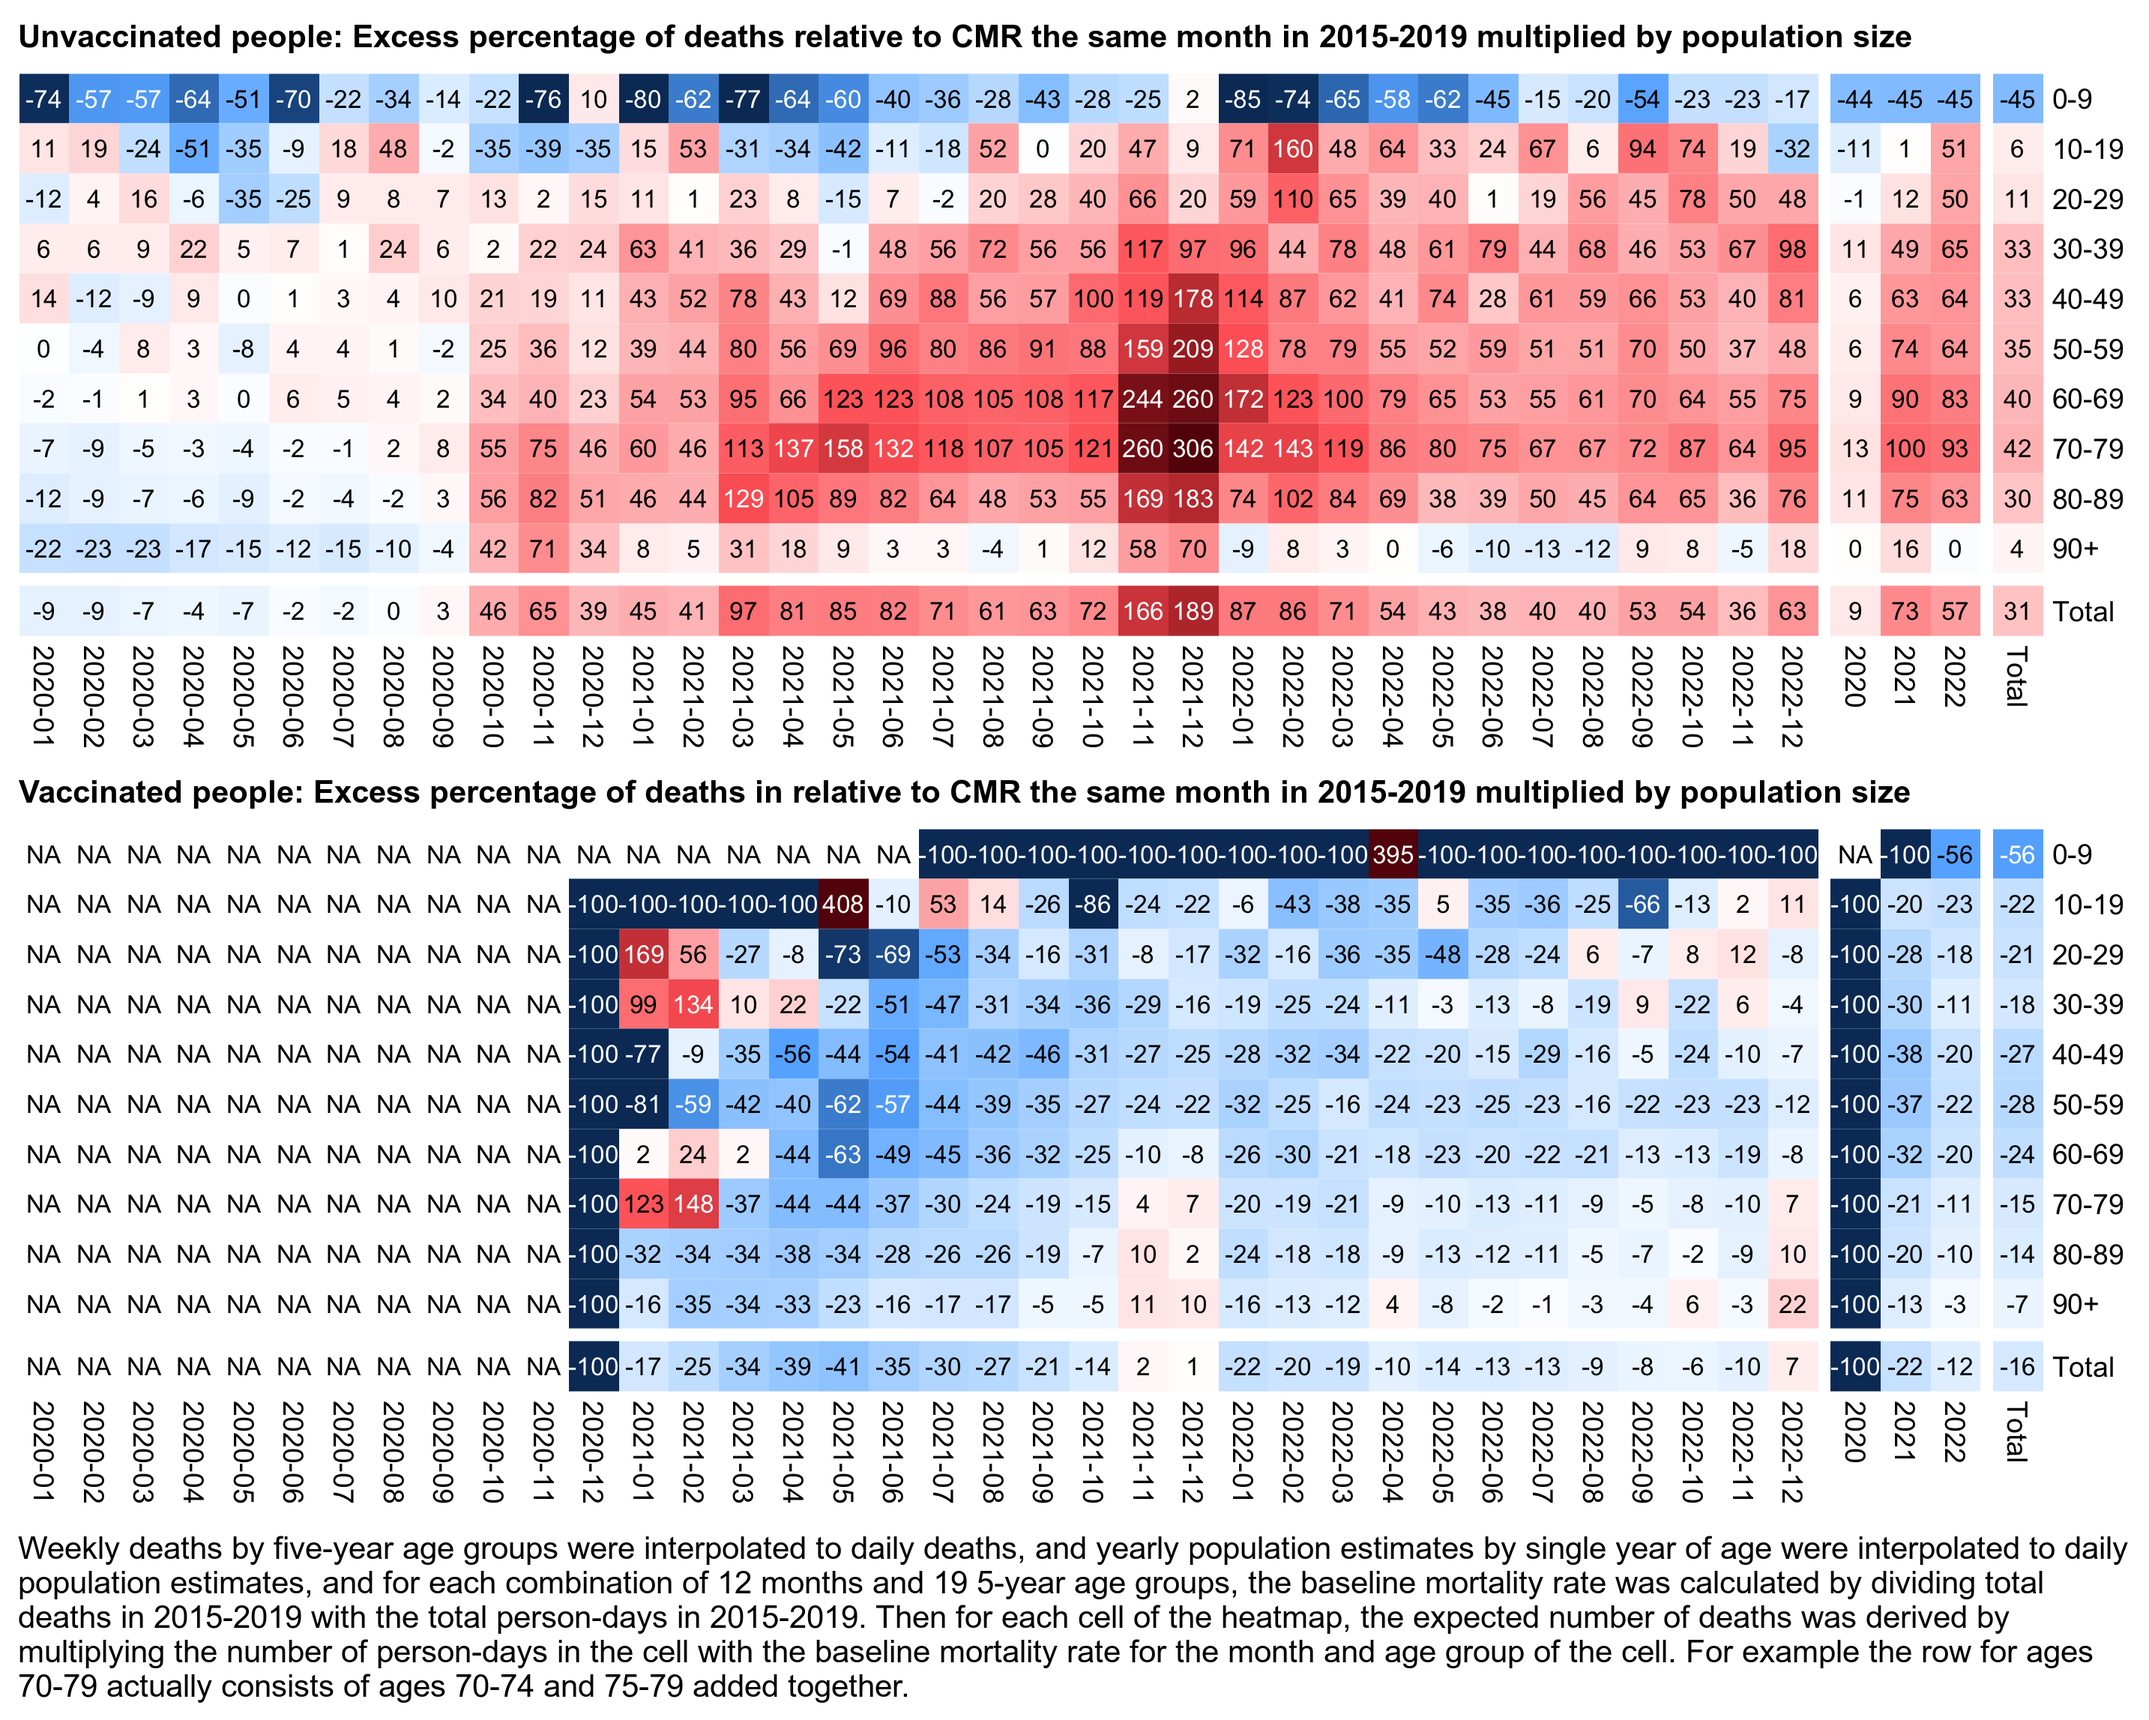
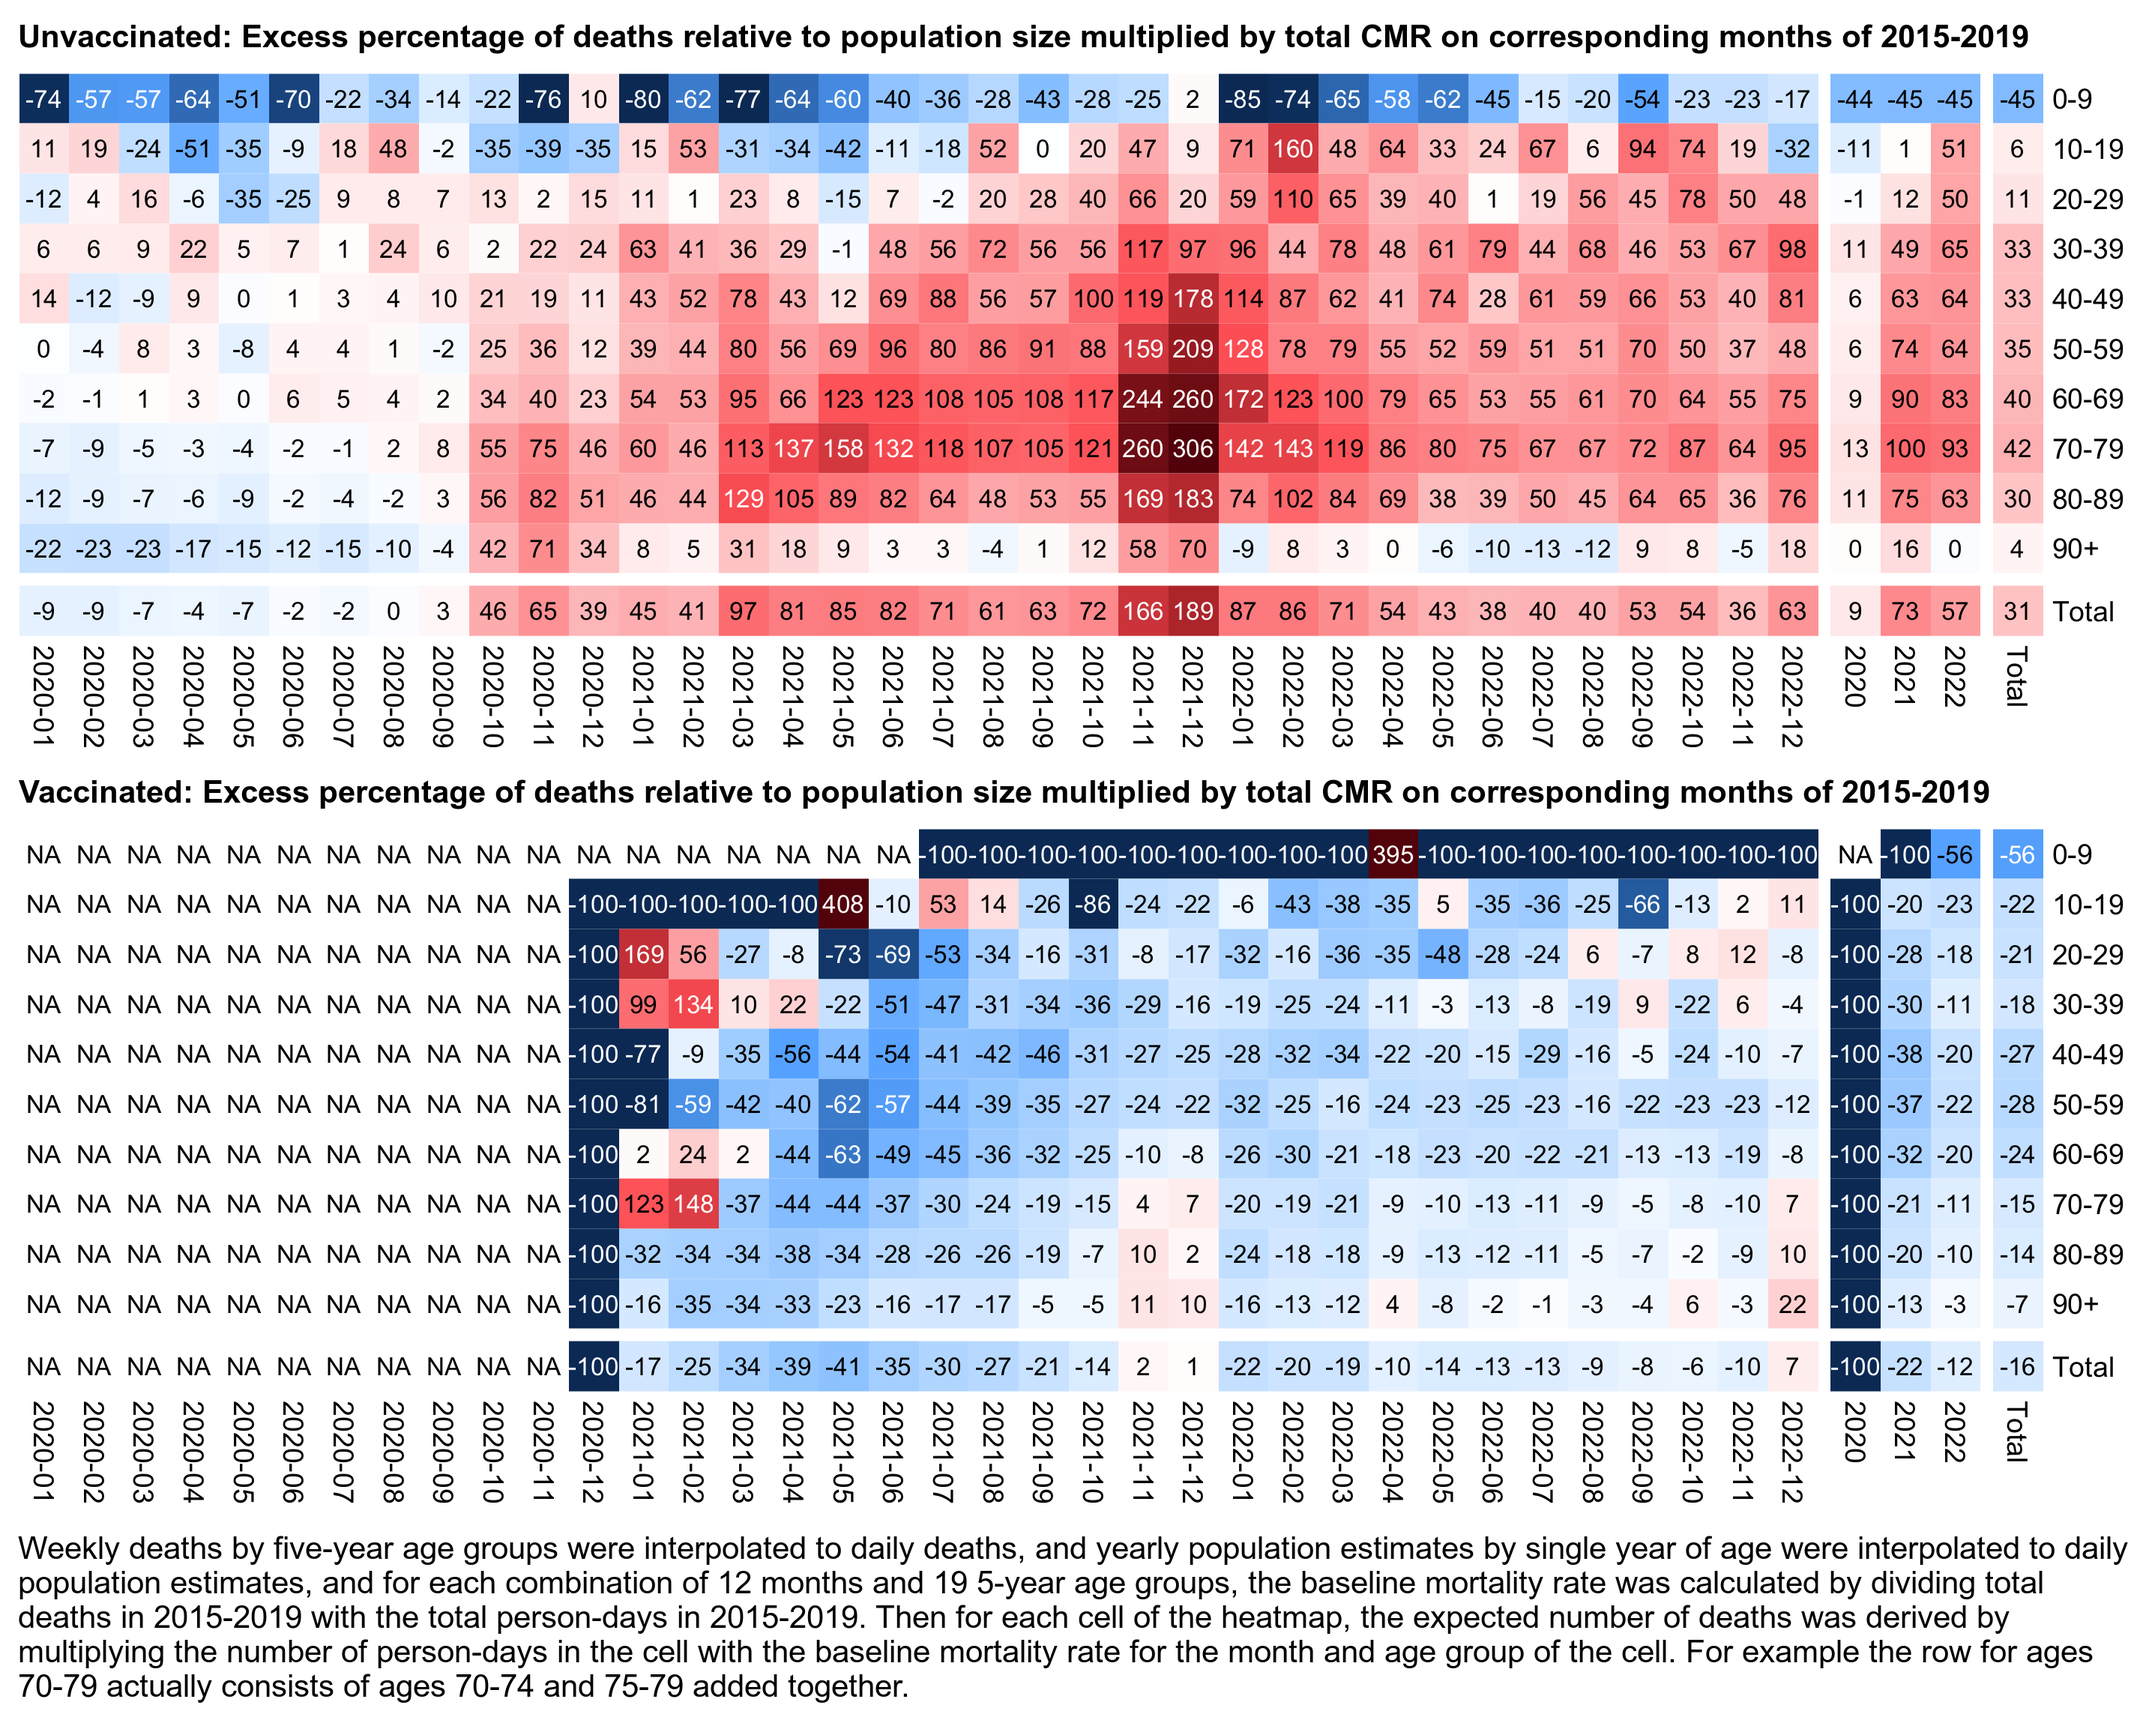
a

diff --git a/czech.html b/czech.html
@@ -2546,7 +2546,7 @@ system(&quot;convert 0.png -filter lanczos2 -resize 25% 1.png&quot;)</pre>
 <h2>
 <a href=#Monthly_CMR_by_age_group_relative_to_baseline_CMR_during_the_same_month_of_the_year_in_2015_2019 id=Monthly_CMR_by_age_group_relative_to_baseline_CMR_during_the_same_month_of_the_year_in_2015_2019>Monthly CMR by age group relative to baseline CMR during the same month of the year in 2015-2019</a>
 </h2>
-<p>Jeffrey Morris wrote: [<a href="https://x.com/jsm2334/status/1813568488931246543">https://x.com/jsm2334/status/1813568488931246543</a>]</p>
+<p>Jeffrey Morris posted this tweet: [<a href="https://x.com/jsm2334/status/1813568488931246543">https://x.com/jsm2334/status/1813568488931246543</a>]</p>
 <blockquote>
 <p>If one computes the death rates for unvaccinated vs. ever vaccinated for each 5 year age group, the ever vaccinated death rate is consistently lower, and both are decently close to the actuarial death rate for Czech republic for the age group by averaging 2015-2019 numbers.</p>
 <p>Here are the death rates and the raw summary date of follow up time (in person-years) and death counts for each age group for unvaccinated (follow up time starting 1/1/20 until death, first vaccine dose, or 12/31/22) or ever vaccinated (follow up starting date of 1st dose until death or 12/31/22).</p>
@@ -2566,8 +2566,7 @@ proj=fread(&quot;http://sars2.net/f/czdeadproj.csv&quot;)[year(date)%in%2015:201
 b=fread(&quot;http://sars2.net/f/czbucketskeep.csv.gz&quot;)[dose&lt;=1]
 
 d=b[,.(dead=sum(dead),alive=sum(as.double(alive))),.(dose,month,month2=substr(month,6,7),age=pmin(age,90)%/%5*5)]
-d=merge(d,proj[,.(base=sum(dead)/sum(pop)),.(month2=substr(date,6,7),age)])
-d=d[,base:=base*alive][,alive:=NULL][,month2:=NULL]
+d=merge(d,proj[,.(base=sum(dead)/sum(pop)),.(month2=substr(date,6,7),age)])[,base:=base*alive]
 d=d[,.(dead=sum(dead),base=sum(base)),.(dose,age=agecut(age,0:9*10),month)]
 d=rbind(d,d[,.(dead=sum(dead),base=sum(base),age=&quot;Total&quot;),.(dose,month)])
 d[,month:=factor(month,c(sort(unique(month)),2020:2022,&quot;Total&quot;))]
@@ -2589,8 +2588,10 @@ for(i in 1:2){
     colorRampPalette(hsv(rep(c(7/12,0),5:4),c(.9,.75,.6,.3,0,.3,.6,.75,.9),c(.4,.65,1,1,1,1,1,.65,.4)))(256))
 }
 
+tit=&quot;Excess percentage of deaths relative to population size multiplied by total CMR on corresponding months of 2015-2019&quot;
 cap=&quot;Weekly deaths by five-year age groups were interpolated to daily deaths, and yearly population estimates by single year of age were interpolated to daily population estimates, and for each combination of 12 months and 19 5-year age groups, the baseline mortality rate was calculated by dividing total deaths in 2015-2019 with the total person-days in 2015-2019. Then for each cell of the heatmap, the expected number of deaths was derived by multiplying the number of person-days in the cell with the baseline mortality rate for the month and age group of the cell. For example the row for ages 70-79 actually consists of ages 70-74 and 75-79 added together.&quot;
-system(paste0(&quot;w=`identify -format %w i1.png`;pad=48;convert -gravity northwest -pointsize 42 -font Arial-Bold \\( -splice x24 -size $[w-pad]x caption:&#39;Unvaccinated people: Excess percentage of deaths relative to CMR the same month in 2015-2019 multiplied by population size&#39; -extent $[w-pad]x -gravity center \\) i1.png -gravity northwest \\( -size $[w-40]x caption:&#39;Vaccinated people: Excess percentage of deaths in relative to CMR the same month in 2015-2019 multiplied by population size&#39; -extent $[w-pad]x -gravity center \\) i2.png \\( -font Arial -interline-spacing -2 -gravity west -size $[w-pad]x caption:&#39;&quot;,cap,&quot;&#39; -extent $[w-pad]x -gravity south -splice 0x20 \\) -append 1.png&quot;))</pre>
+
+system(paste0(&quot;w=`identify -format %w i1.png`;pad=48;convert -gravity northwest -pointsize 42 -font Arial-Bold \\( -splice x24 -size $[w-pad]x caption:&#39;Unvaccinated: &quot;,tit,&quot;&#39; -extent $[w-pad]x -gravity center \\) i1.png -gravity northwest \\( -size $[w-40]x caption:&#39;Vaccinated: &quot;,tit,&quot;&#39; -extent $[w-pad]x -gravity center \\) i2.png \\( -font Arial -interline-spacing -2 -gravity west -size $[w-pad]x caption:&#39;&quot;,cap,&quot;&#39; -extent $[w-pad]x -gravity south -splice 0x20 \\) -append 1.png&quot;))</pre>
 <script>
 let q=document.querySelectorAll('a,code,pre')
 for(let i=0;e=q[i];i++)e.innerHTML=e.innerHTML.replace(/(\w{60,})/g,x=>x.replace(/./g,"$&<wbr>")).replace(/([\041-\045\047-\057\072\075\077-\100\133-\137\173-\176])/g,"$1<wbr>")
